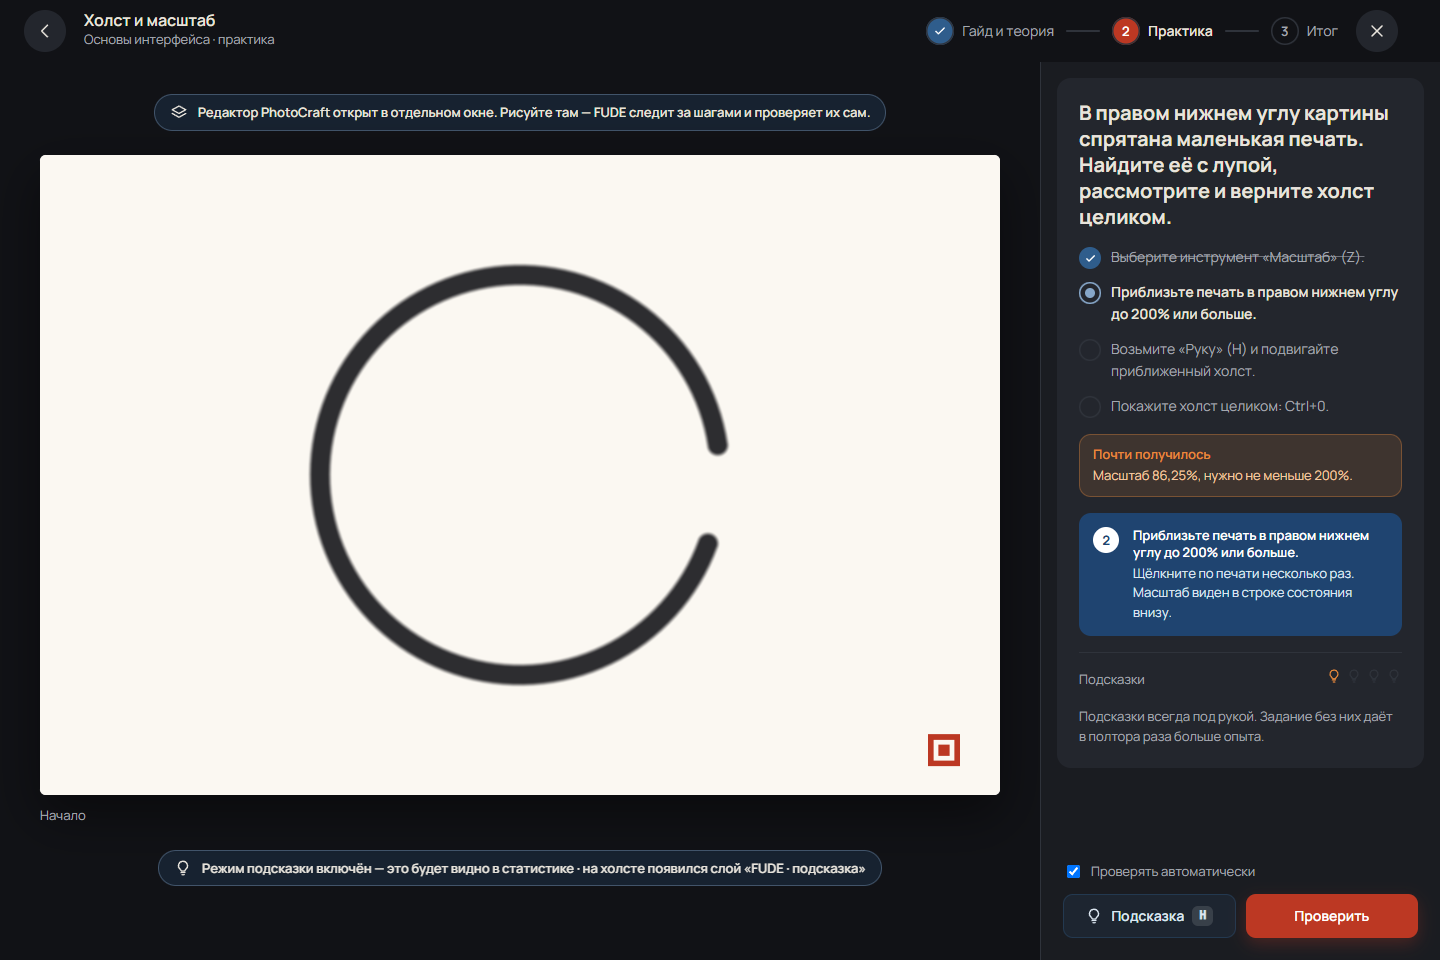
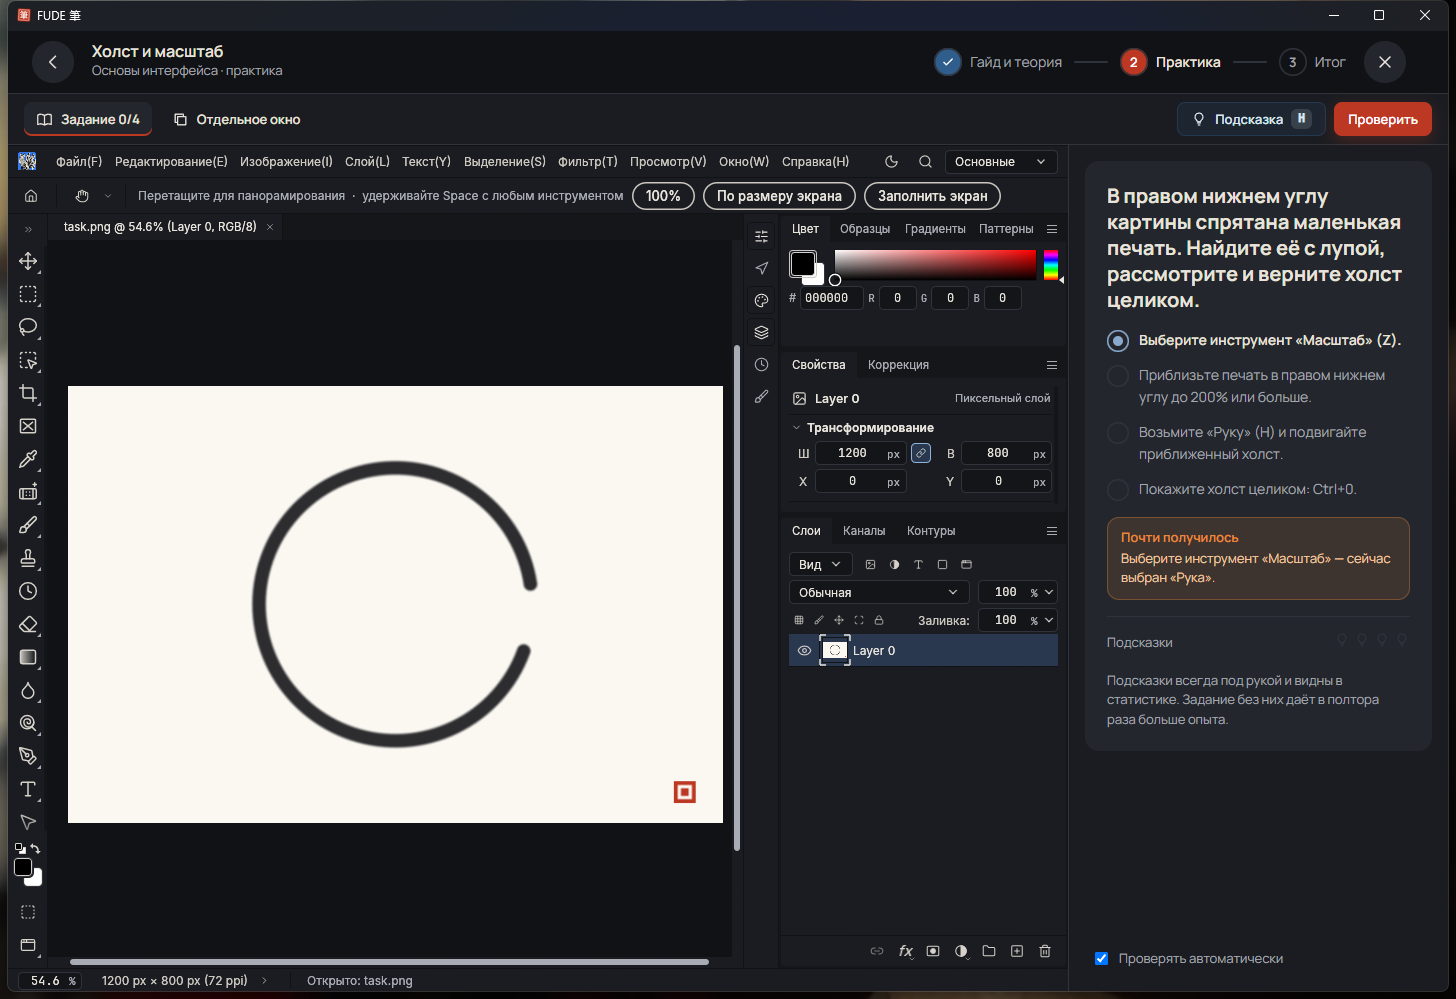
Скриншоты: редактор внутри окна FUDE

diff --git a/README.md b/README.md
@@ -10,8 +10,8 @@
 </p>
 
 <p align="center">
-  <img src="design/app-guide.png" alt="Урок: гайд проигрывается в настоящем редакторе, подписи шагов в FUDE" width="49%">
-  <img src="design/app-practice.png" alt="Практика: шаги задания, автопроверка и подсказка" width="49%">
+  <img src="design/app-guide.png" alt="Урок: гайд рисует в редакторе, встроенном в окно FUDE" width="49%">
+  <img src="design/app-practice.png" alt="Практика: редактор PhotoCraft внутри окна FUDE, справа шаги задания и автопроверка" width="49%">
 </p>
 <p align="center">
   <img src="design/app-lessons.png" alt="Каталог уроков" width="49%">
